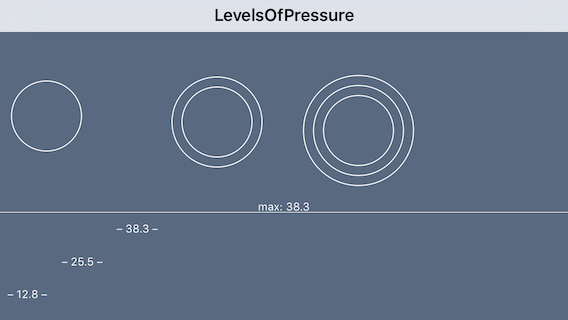
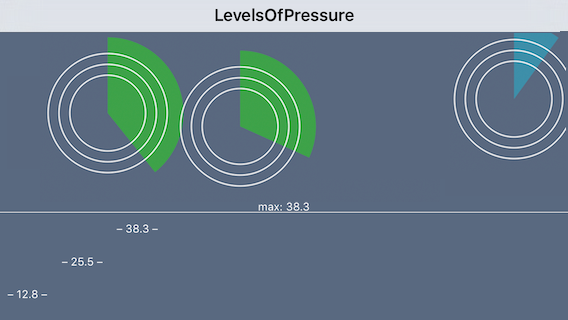
Add 3D touch support, if the hardware and software have it.

Changed region(s): [[0.0299, 0.0938, 0.7482, 0.5938], [0.7782, 0.0938, 1.0, 0.5], [0.0, 0.3125, 0.0299, 0.4062]]

diff --git a/Classes/LevTouchView.m b/Classes/LevTouchView.m
@@ -3,6 +3,7 @@
 
 #import "LevTouchView.h"
 
+#import "Lev+UIColor.h"
 #import "LevGraphView.h"
 #import "LevTouch.h"
 
@@ -36,6 +37,27 @@
 }
 
 @end
+
+static void DrawPie(CGContextRef c, CGPoint p, CGFloat value, CGFloat normalValue) {
+  value = MAX((CGFloat) 0, MIN((CGFloat) 1, value));
+  CGFloat radius = 70;
+  CGContextBeginPath(c);
+  CGContextMoveToPoint(c, p.x, p.y);
+  CGContextAddArc(c, p.x, p.y, radius, -90 * M_PI/180, -90 * M_PI/180 + (value * 2*M_PI), 0);
+  CGContextClosePath(c);
+  UIColor *color;
+  if (value < (CGFloat) normalValue) {
+    color = [UIColor lev_low];
+  } else if (value < (CGFloat) 7/8.) {
+    color = [UIColor lev_middle];
+  } else if (value < (CGFloat) 15/16.) {
+    color = [UIColor lev_warning];
+  } else {
+    color = [UIColor lev_danger];
+  }
+  [color set];
+  CGContextFillPath(c);
+}
 
 @interface LevTouchView()
 // The model of this app is this NSSet of LevTouch.
@@ -78,8 +100,12 @@
 - (void)drawRect:(CGRect)rect {
   CGContextRef c = UIGraphicsGetCurrentContext();
   CGContextSetLineWidth(c, 1);
-  [[UIColor whiteColor] set];
   for (LevTouch *touch in self.myTouches) {
+    if (0.0 != touch.maxForce) {
+      //  Apple documents that '1' is a normal toucb. Let's take anything less than 0.8 as light.
+      DrawPie(c, touch.location, touch.force/touch.maxForce, 0.8/touch.maxForce);
+    }
+    [[UIColor whiteColor] set];
     CGFloat radius = 35;
     CGFloat maxRadius = 10;
     do {
@@ -101,6 +127,8 @@
       touch.majorRadius = newTouch.majorRadius;
       touch.previousLocation = newTouch.previousLocation;
       touch.previousMajorRadius = newTouch.previousMajorRadius;
+      touch.force = newTouch.force;
+      touch.maxForce = newTouch.maxForce;
       break;
     }
   }

diff --git a/Classes/Lev+UIColor.m b/Classes/Lev+UIColor.m
@@ -1,0 +1,42 @@
+#import "Lev+UIColor.h"
+
+static CGFloat sAlpha = (CGFloat) 0.7;
+
+@implementation UIColor (Lev)
++ (UIColor *)lev_low {
+  static UIColor *result = nil;
+  if (nil == result) {
+    result = [UIColor colorWithRed:(CGFloat)(0x32 / 255.)
+                             green:(CGFloat)(0xA0 / 255.) blue:(CGFloat)(0xBC / 255.) alpha:sAlpha];
+  }
+  return result;
+}
+
++ (UIColor *)lev_middle{
+  static UIColor *result = nil;
+  if (nil == result) {
+    result = [UIColor colorWithRed:(CGFloat)(0x32 / 255.)
+                             green:(CGFloat)(0xBC / 255.) blue:(CGFloat)(0x32 / 255.) alpha:sAlpha];
+  }
+  return result;
+}
+
++ (UIColor *)lev_warning{
+  static UIColor *result = nil;
+  if (nil == result) {
+    result = [UIColor colorWithRed:(CGFloat)(0xBC / 255.)
+                             green:(CGFloat)(0xAA / 255.) blue:(CGFloat)(0x32 / 255.) alpha:sAlpha];
+  }
+  return result;
+}
+
++ (UIColor *)lev_danger{
+  static UIColor *result = nil;
+  if (nil == result) {
+    result = [UIColor colorWithRed:(CGFloat)(0xBC / 255.)
+                             green:(CGFloat)(0x32 / 255.) blue:(CGFloat)(0x32 / 255.) alpha:sAlpha];
+  }
+  return result;
+}
+
+@end

diff --git a/Classes/LevTouch.m b/Classes/LevTouch.m
@@ -11,6 +11,10 @@
   result.majorRadius = touch.majorRadius;
   result.previousLocation = [touch previousLocationInView:view];
   result.previousMajorRadius = touch.majorRadius;
+  if ([touch respondsToSelector:@selector(force)]) {
+    result.force = touch.force;
+    result.maxForce = touch.maximumPossibleForce;
+  }
   return result;
 }
 
@@ -21,6 +25,8 @@
   result.previousLocation = self.previousLocation;
   result.previousMajorRadius = self.previousMajorRadius;
   result.index = self.index;
+  result.force = self.force;
+  result.maxForce = self.maxForce;
   return result;
 }
 
@@ -30,7 +36,9 @@
       self.majorRadius == a.majorRadius &&
       self.previousMajorRadius == a.previousMajorRadius &&
       PointEqualToPoint(self.location, a.location) &&
-      PointEqualToPoint(self.previousLocation, a.previousLocation) ;
+      PointEqualToPoint(self.previousLocation, a.previousLocation) &&
+      self.force == a.force &&
+      self.maxForce == a.maxForce;
 }
 
 - (NSUInteger)hash {

diff --git a/Classes/LevTouch.h b/Classes/LevTouch.h
@@ -10,6 +10,8 @@
 @property(nonatomic) CGPoint previousLocation;
 @property(nonatomic) CGFloat majorRadius;
 @property(nonatomic) CGFloat previousMajorRadius;
+@property(nonatomic) CGFloat force;
+@property(nonatomic) CGFloat maxForce;
 @property(nonatomic) int index; // An arbitrary nteger used by the owner. isEqual: ignores it.
 
 + (instancetype)levTouchWithTouch:(UITouch *)touch inView:(UIView *)view;

diff --git a/Classes/LevGraphView.h b/Classes/LevGraphView.h
@@ -5,7 +5,7 @@
 
 @interface LevGraphView : UIView
 
-@property(nonatomic) NSArray *touches;  // input: sorted array of LevTouche
+@property(nonatomic) NSArray *touches;  // input: sorted array of LevTouch
 
 @property(nonatomic) CGFloat maxRadius; // input: the max we've seen so far.
 

diff --git a/Classes/Lev+UIColor.h b/Classes/Lev+UIColor.h
@@ -1,0 +1,8 @@
+#import <UIKit/UIKit.h>
+
+@interface UIColor (Lev)
++ (UIColor *)lev_low;
++ (UIColor *)lev_middle;
++ (UIColor *)lev_warning;
++ (UIColor *)lev_danger;
+@end

diff --git a/ReadMe.md b/ReadMe.md
@@ -1,5 +1,7 @@
 ## Levels of Pressure
 
+11/11/2016 - If run on a 3D Touch device, shows the also shows the 3D touch value as a colored pie
+graph.
 10/24/2015 - asset catalogs. Icon.
 10/03/2015 - Demonstrates that Pre-6s hardware can detect the difference
 between a light touch and a heavy one. iOS 8 and up.
